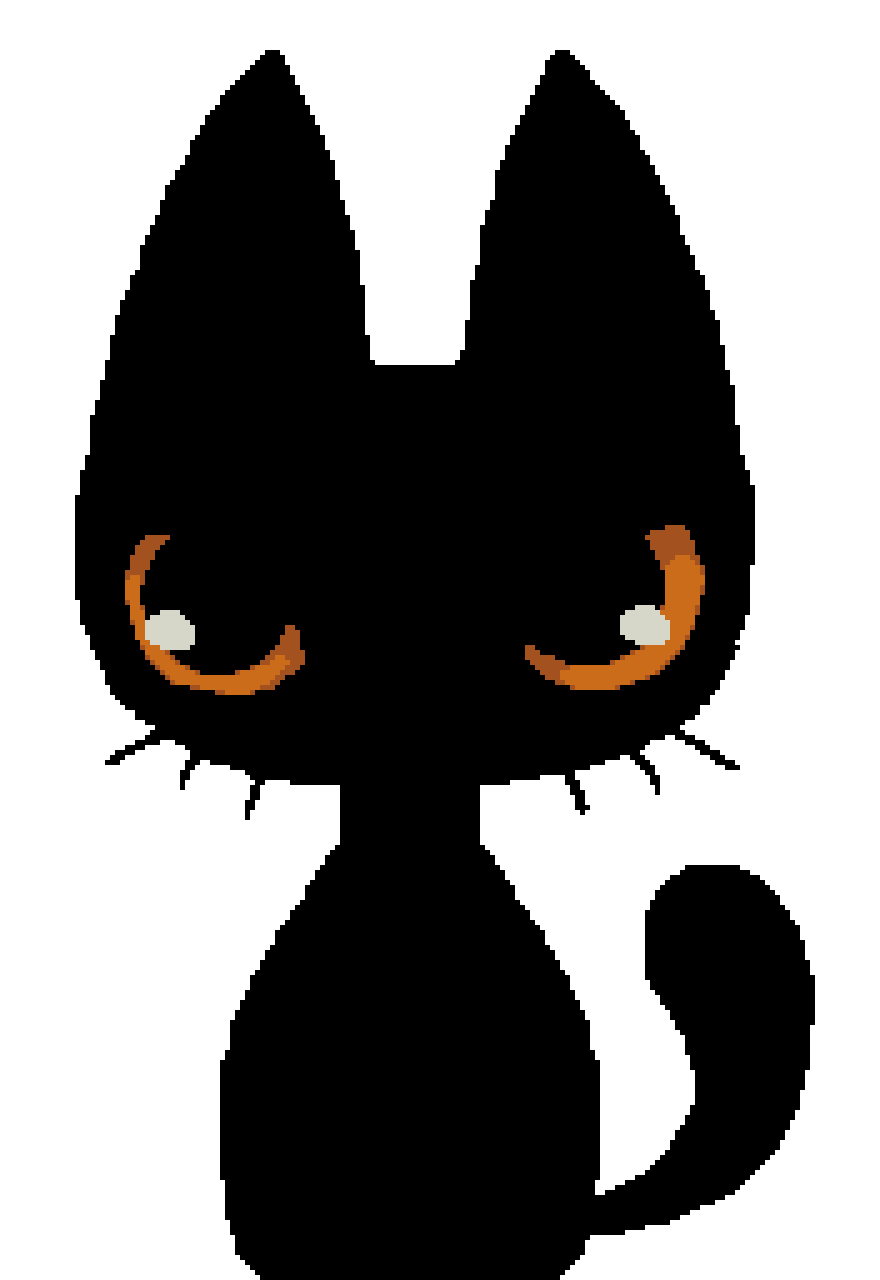
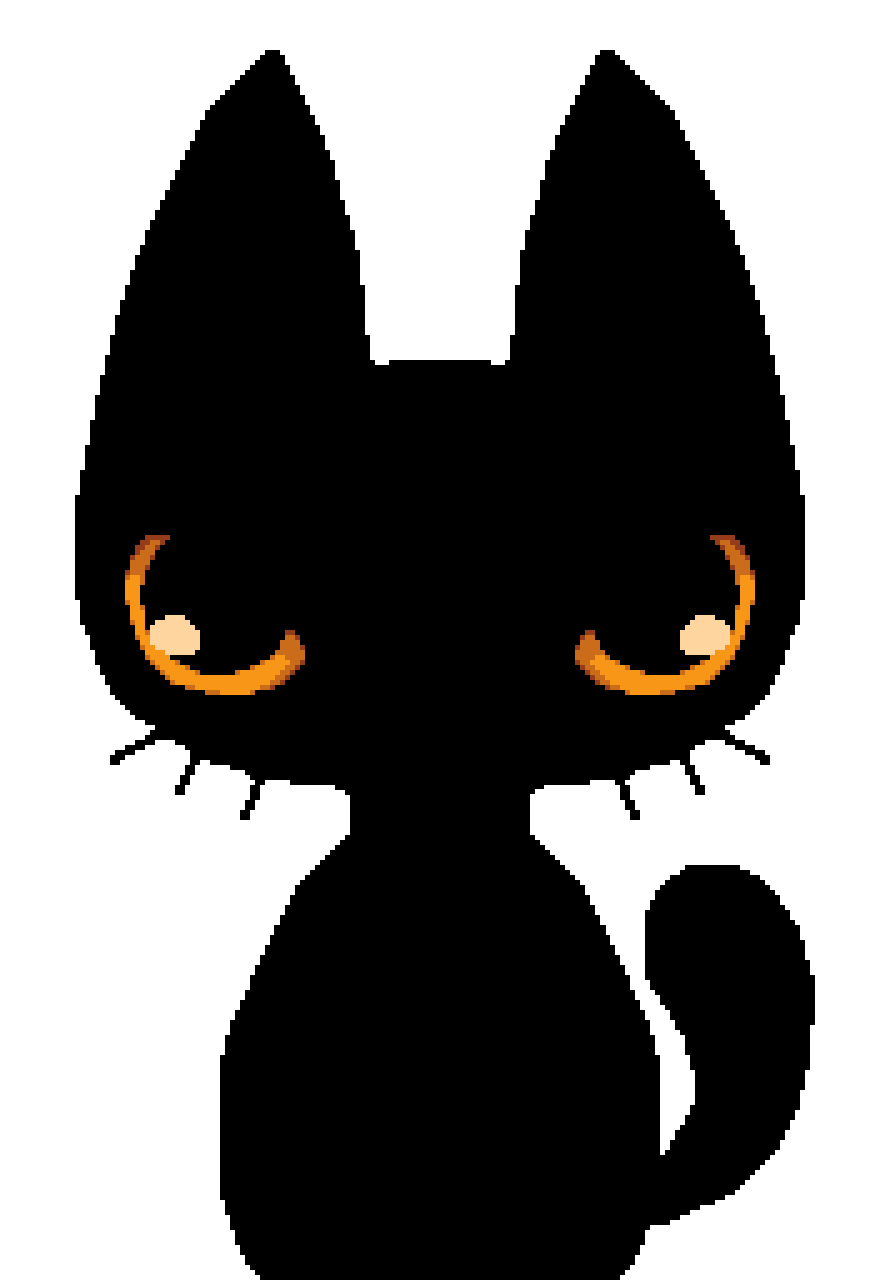
2.0

diff --git a/style.css b/style.css
@@ -346,11 +346,10 @@ body {
 
 /* ===== УВЕДОМЛЕНИЕ (TOAST) ===== */
 .toast-notification {
-    display: flex; /* Всегда flex, чтобы анимация работала */
+    display: flex;
     position: fixed;
     bottom: 20px;
-    left: 50%;
-    transform: translateY(100%); /* Спрятано за нижним краем */
+    transform: translateY(100%);
     background-color: #242638;
     border: 2px solid #F04F78;
     padding: 15px 20px;
@@ -368,7 +367,7 @@ body {
 .toast-notification.active {
     visibility: visible;
     opacity: 1;
-    transform: translateY(0); /* Выезжает на место */
+    transform: translateY(0);
 }
 
 .toast-close-btn {
